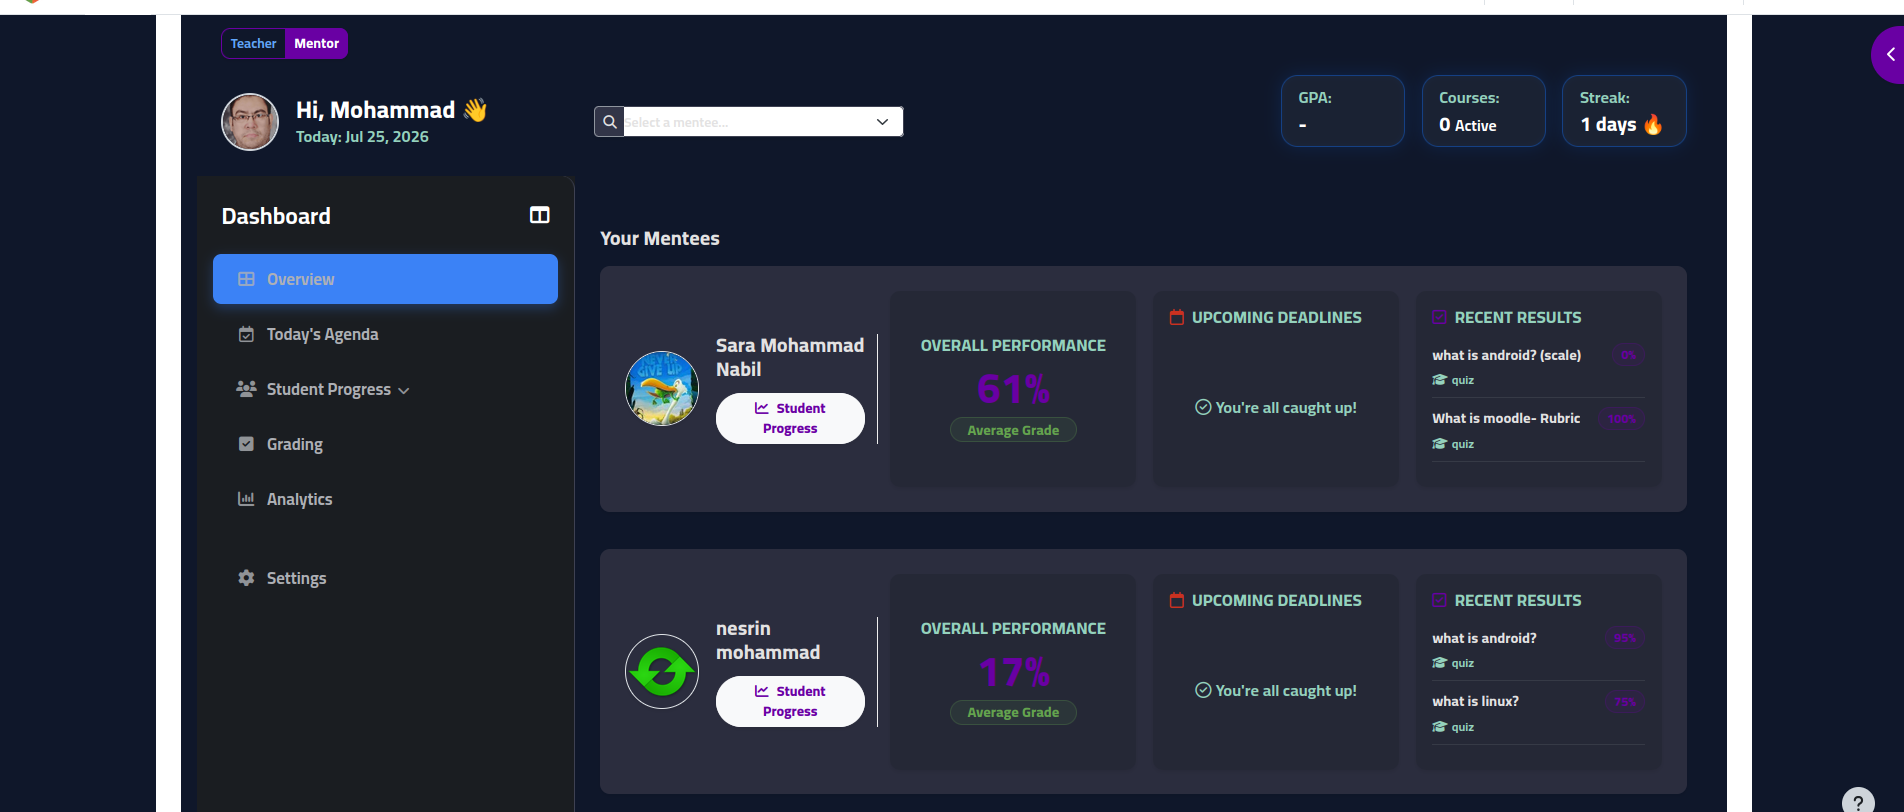
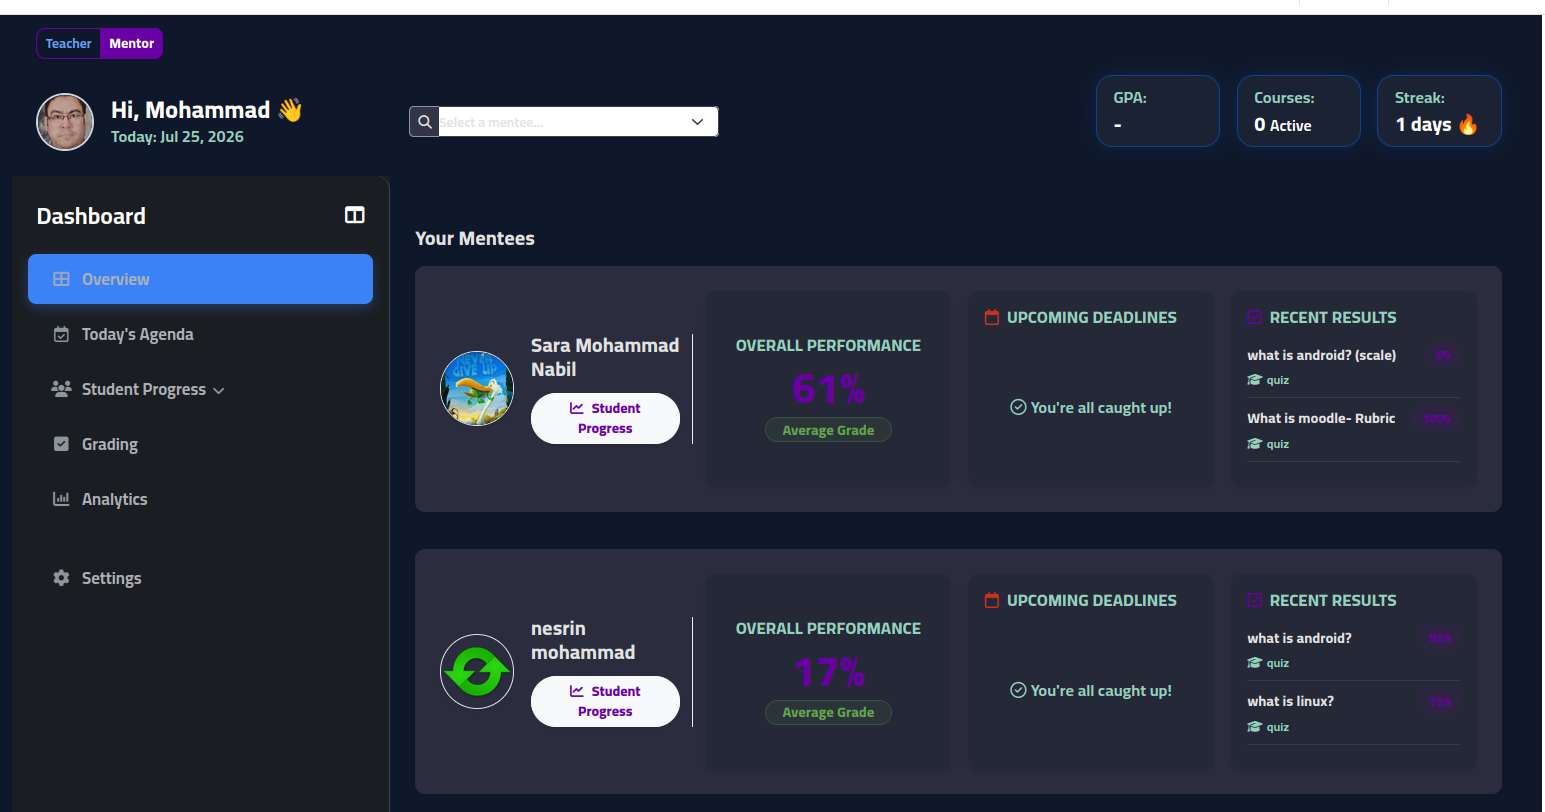
x

diff --git a/improved/mentor_portal_showcase.html b/improved/mentor_portal_showcase.html
@@ -105,9 +105,9 @@
     color: #cbd5e1;
     line-height: 1.45;
   }
-  .callout-1 { top: 40px; left: 10px; border-left: 4px solid #38bdf8; }
-  .callout-2 { top: 120px; right: 10px; border-left: 4px solid #818cf8; }
-  .callout-3 { bottom: 50px; right: 40px; border-left: 4px solid #c084fc; }
+  .callout-1 { top: 25px; left: -15px; border-left: 4px solid #38bdf8; }
+  .callout-2 { top: 150px; right: -15px; border-left: 4px solid #818cf8; }
+  .callout-3 { bottom: 40px; right: 20px; border-left: 4px solid #c084fc; }
 </style>
 </head>
 <body>
